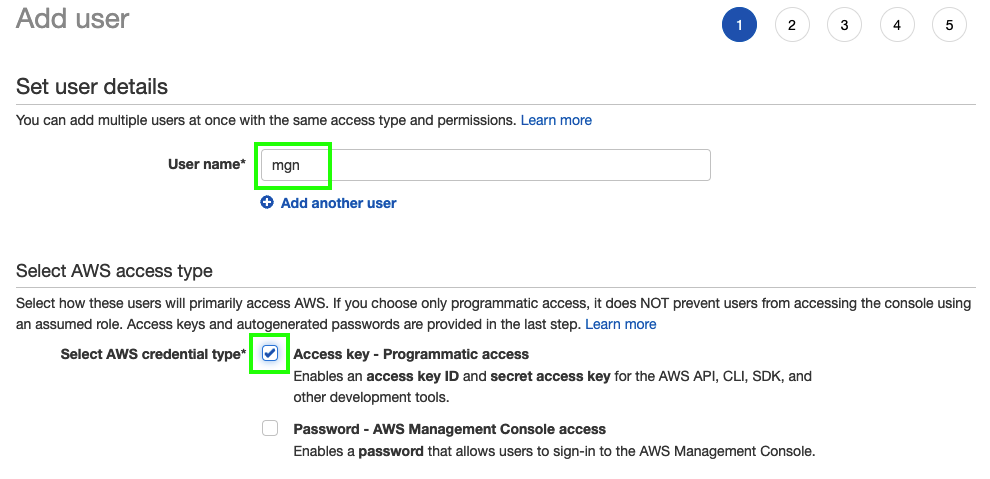
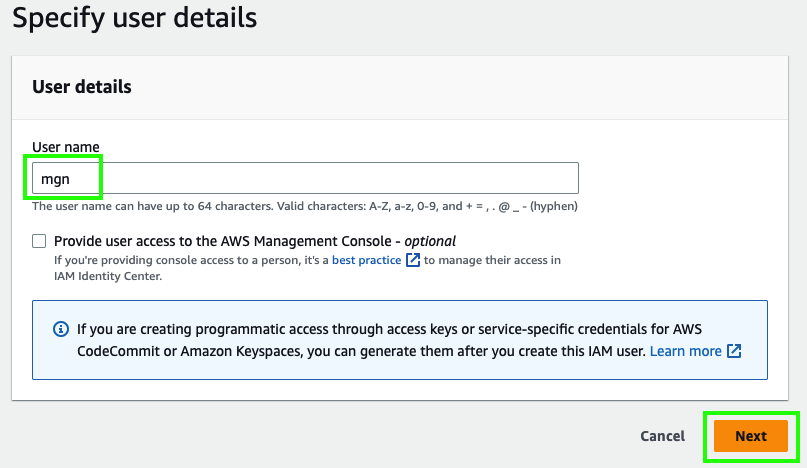
update

diff --git a/content/10_mgn/10_usuarioiam.md b/content/10_mgn/10_usuarioiam.md
@@ -1,0 +1,33 @@
+---
+draft: false
+title: 2. Creación de usuario AWS IAM
+weight: 10
+---
+Para instalar el Agente de Replicación, primero debe generar las credenciales de AWS necesarias. En este módulo usted creará un usuario de AWS IAM y le asignará la política de permisos adecuada. Al crear este usuario, obtendrá una clave de acceso y una clave de acceso secreta, que ingresará durante la instalación del agente.
+
+1. Haga clic en **Services** y posteriormente seleccione el servicio de **IAM** (también puede usar el campo de búsqueda).
+2. Dentro de **IAM**, haga clic en **Users** en el menú lateral izquierdo y posteriormente haga clic en el botón de **Add users**.
+
+![Add users](/static/images/mgn/addusers1.png)
+
+3. En el campo de **User name** ingrese :code[mgn]{showCopyAction=true} y haga clic en **Next**.
+
+![Add users](/static/images/mgn/addusers2.png)
+
+4. En la pantalla **Set permissions** seleccione la opción de **Attach existing policies directly** y en el campo de búsqueda ingrese :code[AWSApplicationMigrationAgentPolicy]{showCopyAction=true}. 
+
+![Add users](/static/images/mgn/addusers3.png)
+
+5. Seleccione la política y haga clic en **Next**.
+6. En la siguiente pantalla haga revise que todo esté correcto y haga clic en **Create user*.
+
+![Add users](/static/images/mgn/addusers4.png)
+
+7. En la siguiente pantalla deberá ver un mensaje de **Success**. Haga clic en **Download .csv** para descargar las credenciales del usuario que acaba de crear. Guarde este archivo ya que lo utilizará más adelante.
+
+
+
+8. Proceda al siguiente módulo.
+
+
+::alert[Para más información acerca las credenciales requeridas, puede consultar la documentación disponible: [Generating the required AWS credentials](https://docs.aws.amazon.com/mgn/latest/ug/credentials.html)]{type="info"}
